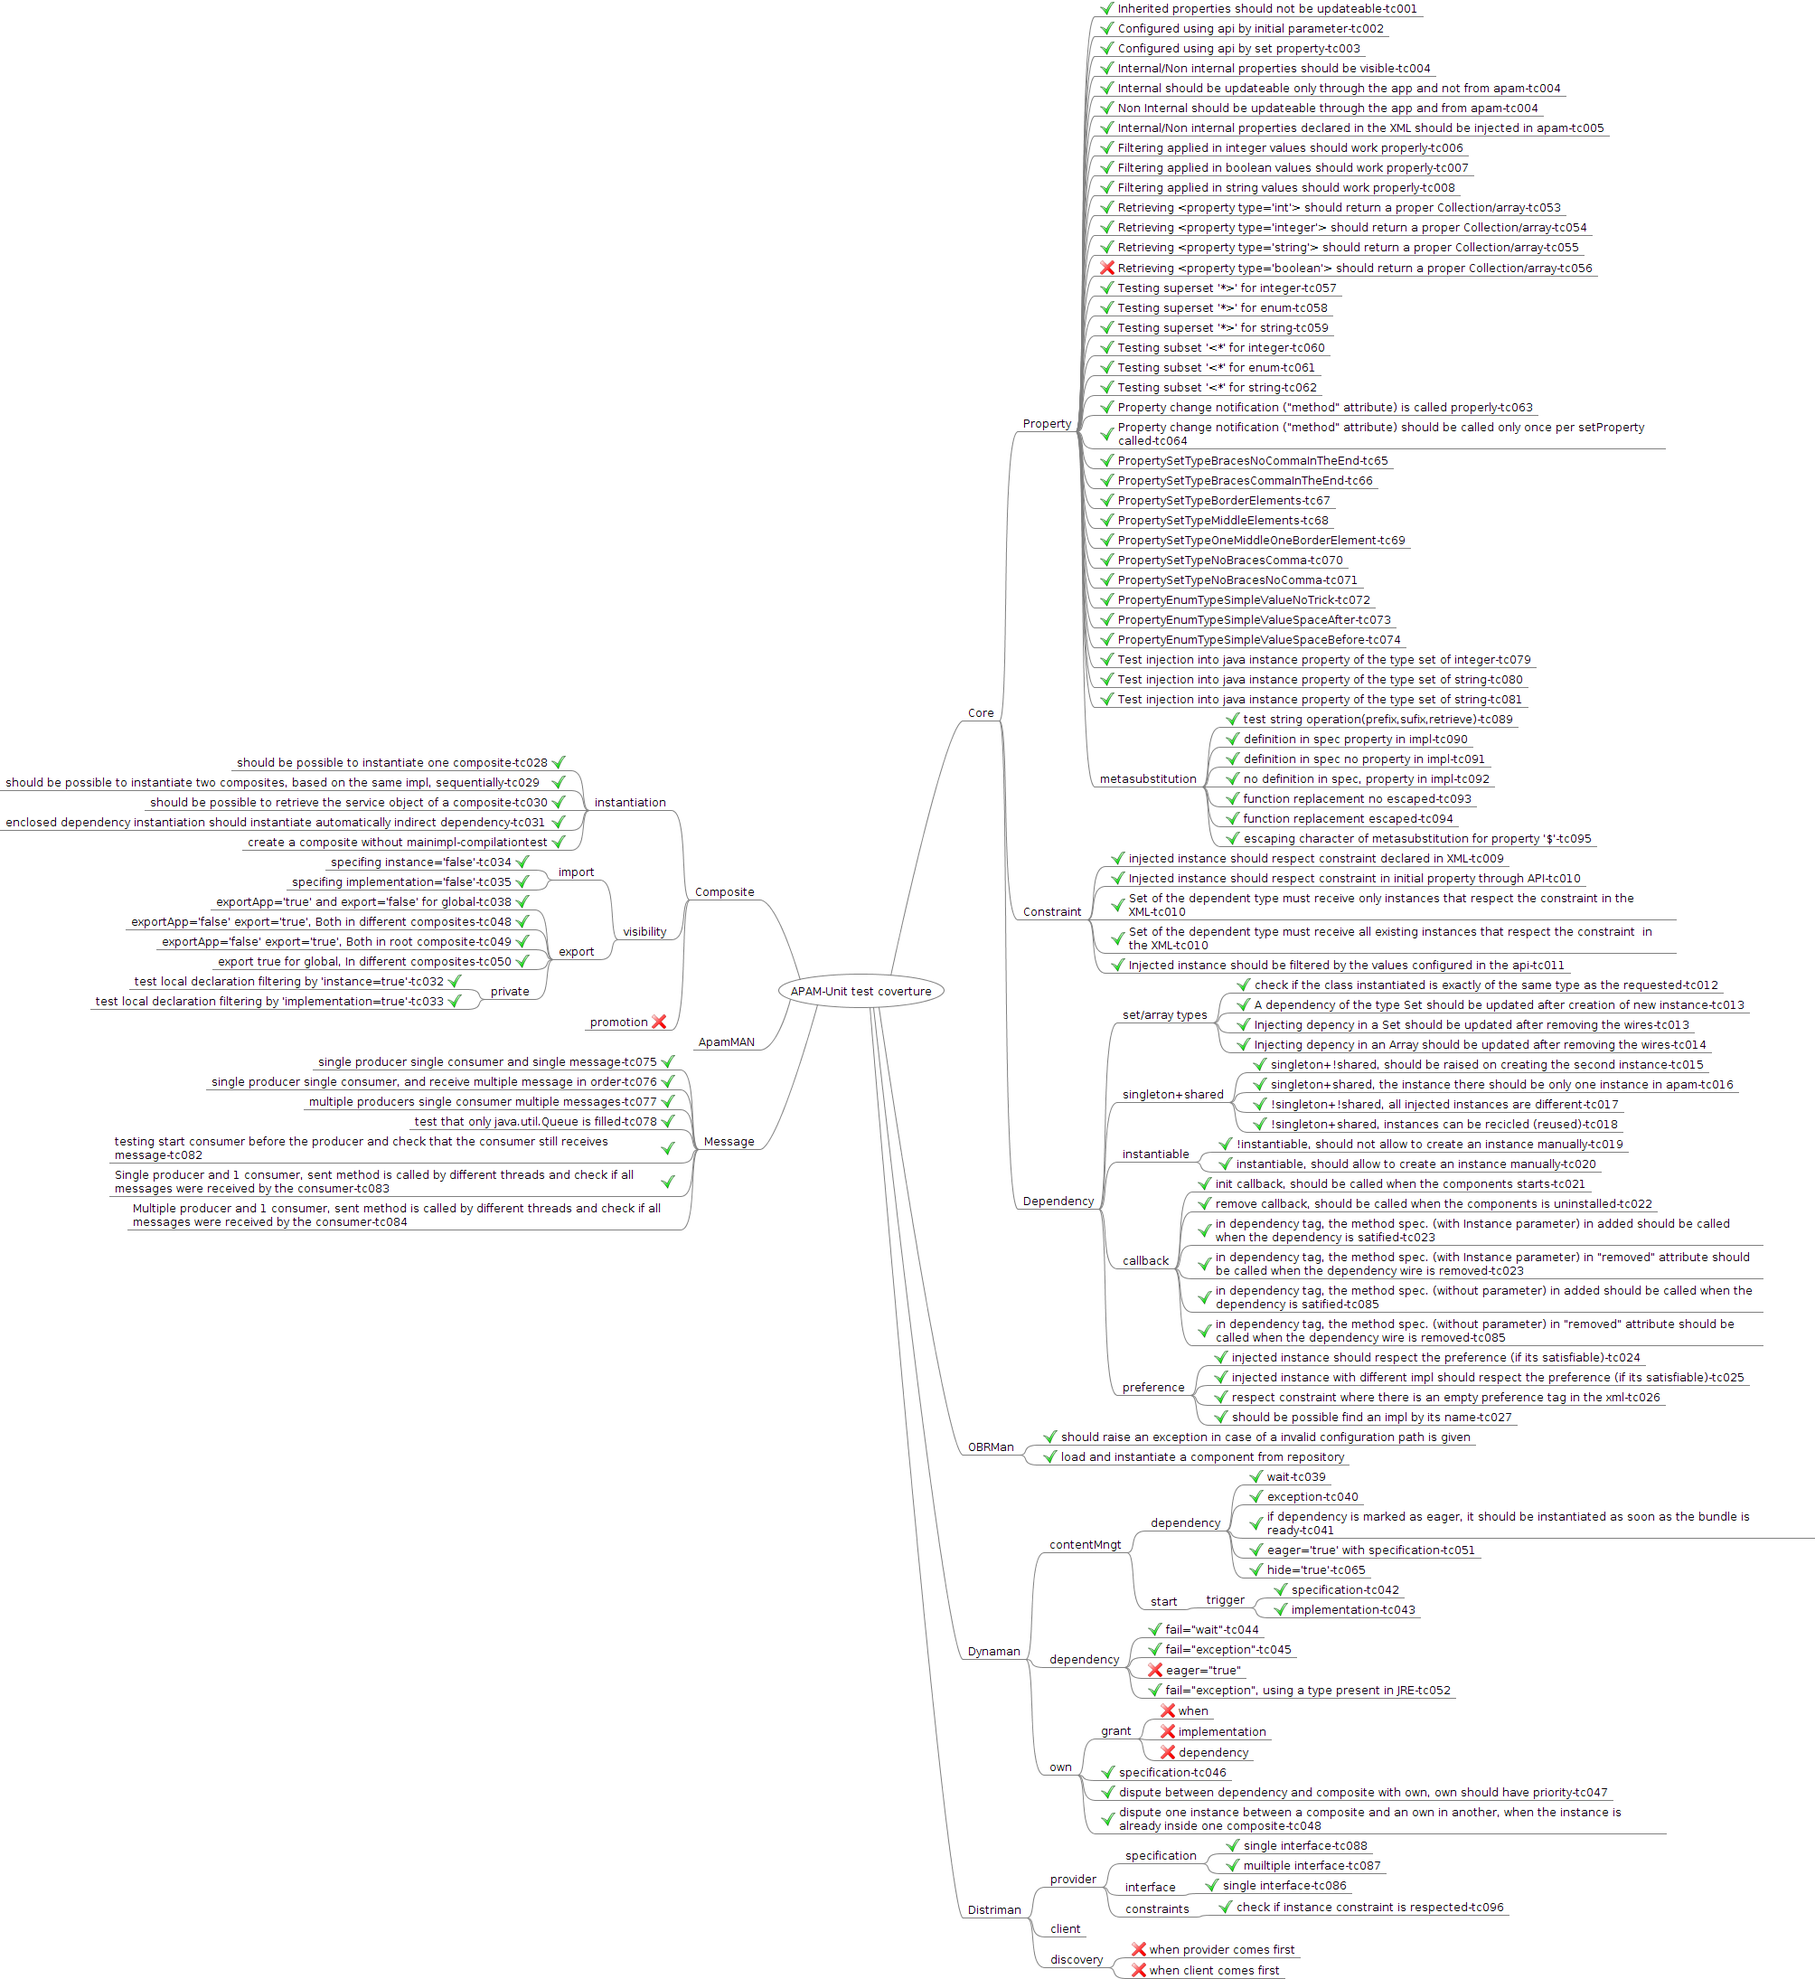
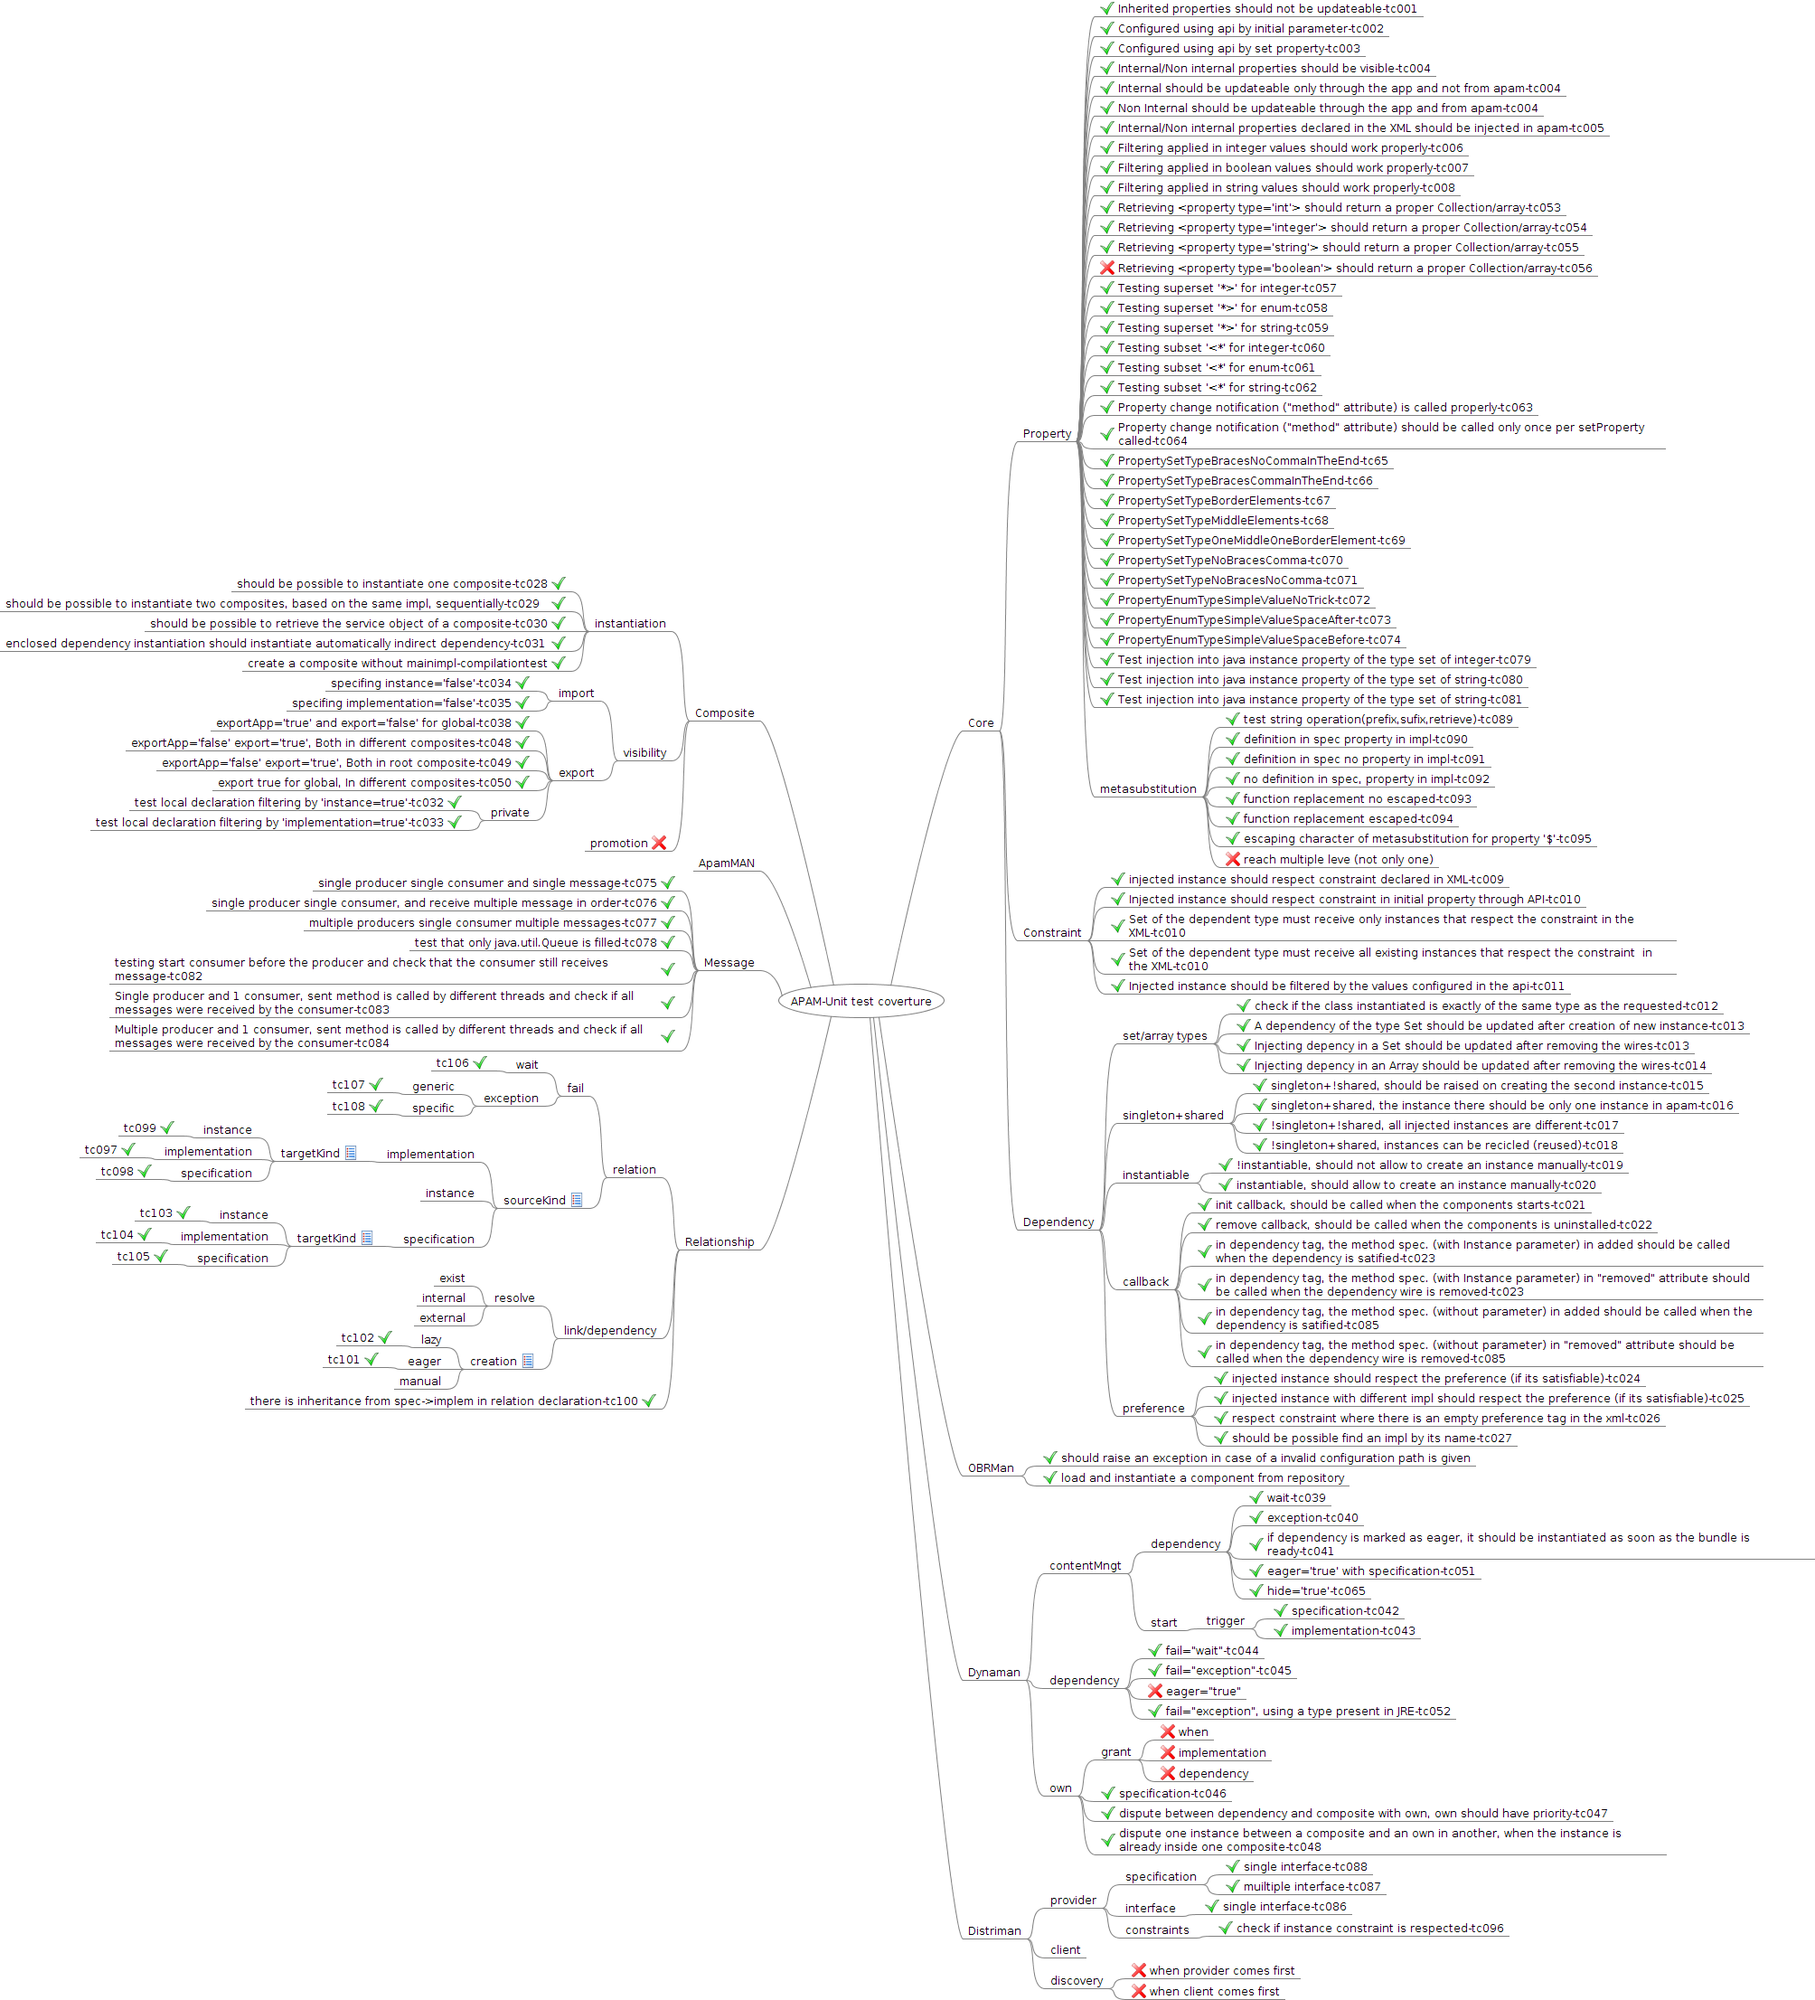
adding tc107,tc108

diff --git a/tests/pax-test/src/test/java/fr/imag/adele/apam/test/testcases/RelationTest.java b/tests/pax-test/src/test/java/fr/imag/adele/apam/test/testcases/RelationTest.java
@@ -13,9 +13,10 @@ import fr.imag.adele.apam.Component;
 import fr.imag.adele.apam.Implementation;
 import fr.imag.adele.apam.Instance;
 import fr.imag.adele.apam.Link;
+import fr.imag.adele.apam.ResolutionException;
 import fr.imag.adele.apam.Specification;
 import fr.imag.adele.apam.impl.ComponentImpl;
-import fr.imag.adele.apam.pax.test.implS3.S3GroupAImpl;
+import fr.imag.adele.apam.pax.test.implS7.S07CustomException;
 import fr.imag.adele.apam.pax.test.implS7.S07ImplementationImporter01;
 import fr.imag.adele.apam.pax.test.implS7.S07ImplementationImporter02;
 import fr.imag.adele.apam.pax.test.implS7.S07ImplementationImporter03;
@@ -26,7 +27,8 @@ import fr.imag.adele.apam.pax.test.implS7.S07ImplementationImporter07;
 import fr.imag.adele.apam.pax.test.implS7.S07ImplementationImporter08;
 import fr.imag.adele.apam.pax.test.implS7.S07ImplementationImporter09;
 import fr.imag.adele.apam.pax.test.implS7.S07ImplementationImporter10;
-import fr.imag.adele.apam.test.testcases.DynamanDependentTest.ThreadWrapper;
+import fr.imag.adele.apam.pax.test.implS7.S07ImplementationImporter11;
+import fr.imag.adele.apam.pax.test.implS7.S07ImplementationImporter12;
 import fr.imag.adele.apam.tests.helpers.ExtensionAbstract;
 
 @RunWith(JUnit4TestRunner.class)
@@ -177,10 +179,6 @@ public class RelationTest extends ExtensionAbstract {
 				.getServiceObject();
 
 		Assert.assertTrue("Declaring a relation information on the apam specification tag, and just using the id in the apam implementation didnt work, so the dependency was not resolved",dependency.getInjected()!=null);
-
-		auxListProperties(dependency.getInjected());
-		
-		auxListInstances();
 		
 	}
 
@@ -247,6 +245,7 @@ public class RelationTest extends ExtensionAbstract {
 		S07ImplementationImporter07 dependency = (S07ImplementationImporter07) instance
 				.getServiceObject();
 		
+		//Force field injection
 		dependency.getInjected();
 		
 		ComponentImpl ci=(ComponentImpl)implementation.getSpec();
@@ -269,6 +268,7 @@ public class RelationTest extends ExtensionAbstract {
 		S07ImplementationImporter08 dependency = (S07ImplementationImporter08) instance
 				.getServiceObject();
 		
+		//Force field injection
 		dependency.getInjected();
 		
 		ComponentImpl ci=(ComponentImpl)implementation.getSpec();
@@ -291,6 +291,7 @@ public class RelationTest extends ExtensionAbstract {
 		S07ImplementationImporter09 dependency = (S07ImplementationImporter09) instance
 				.getServiceObject();
 		
+		//Force field injection
 		dependency.getInjected();
 		
 		ComponentImpl ci=(ComponentImpl)implementation.getSpec();
@@ -325,7 +326,7 @@ public class RelationTest extends ExtensionAbstract {
 		
 	}
 	
-	// Require by the test CompositeContentMngtDependencyFailWait
+	// Require by the test RelationSourceSpecificationTargetImplementationFailWait_tc106
 	class ThreadWrapper extends Thread  {
 
 			final S07ImplementationImporter10 group;
@@ -340,6 +341,66 @@ public class RelationTest extends ExtensionAbstract {
 			}
 
 		}
+
+	@Test
+	public void RelationSourceSpecificationTargetImplementationFailExceptionGeneric_tc107() {
+
+		Implementation implementation = CST.apamResolver.findImplByName(null,
+				"S07-implementation-11");
+
+		Instance instance = implementation.createInstance(null,
+				Collections.<String, String> emptyMap());
+
+		S07ImplementationImporter11 dependency = (S07ImplementationImporter11) instance
+				.getServiceObject();
+		
+		Exception raised=null;
+		
+		try{
+			//Force field injection
+			dependency.getInjected();
+		}catch(Exception e){
+			//If arrive at this block, the test has passed
+			raised=e;
+		}
+		
+		Assert.assertTrue("Using tag <relation/> with fail='exception' didnt not raise an exception as expected.", raised!=null);
+		
+		String messageTemplate="Using tag <relation/> with fail='exception' didnt not raise an exception of the type expected. Type raised was %s instead of %s";
+		
+		Assert.assertTrue(String.format(messageTemplate, raised.getClass().getCanonicalName(), ResolutionException.class.getCanonicalName()), ResolutionException.class.isInstance(raised));
+		
+	}
 	
+	@Test
+	public void RelationSourceSpecificationTargetImplementationFailExceptionCustom_tc108() {
+
+		Implementation implementation = CST.apamResolver.findImplByName(null,
+				"S07-implementation-12");
+
+		Instance instance = implementation.createInstance(null,
+				Collections.<String, String> emptyMap());
+
+		S07ImplementationImporter12 dependency = (S07ImplementationImporter12) instance
+				.getServiceObject();
+		
+		Exception raised=null;
+		
+		try{
+			//Force field injection
+			dependency.getInjected();
+			throw new Exception("foi");
+		}catch(Exception e){
+			//If arrive at this block, the test has passed
+			raised=e;
+		}
+		
+		Assert.assertTrue("Using tag <relation/> with fail='exception' didnt not raise an exception as expected.", raised!=null);
+		
+		String messageTemplate="Using tag <relation/> with exception='%s' did not raise this specific exception. It raised %s instead";
+		
+		Assert.assertTrue(String.format(messageTemplate, S07CustomException.class.getCanonicalName(),raised.getClass().getCanonicalName()), S07CustomException.class.isInstance(raised));
+		
+	}
 	
 }

diff --git a/documentations/technical/test-coverture/APAM-UnitTest-Coverture-OnFreeMindApp.mm b/documentations/technical/test-coverture/APAM-UnitTest-Coverture-OnFreeMindApp.mm
@@ -409,7 +409,7 @@
 </node>
 </node>
 </node>
-<node CREATED="1372164247672" ID="ID_1019323947" MODIFIED="1372343410199" POSITION="left" TEXT="Relationship">
+<node CREATED="1372164247672" ID="ID_1019323947" MODIFIED="1372750895061" POSITION="left" TEXT="Relationship">
 <node CREATED="1372164251663" ID="ID_1087294689" MODIFIED="1372164262137" TEXT="relation">
 <node CREATED="1372166885407" ID="ID_1520514247" MODIFIED="1372166887403" TEXT="fail">
 <node CREATED="1372349258184" ID="ID_676750765" MODIFIED="1372349259738" TEXT="wait">
@@ -418,8 +418,16 @@
 </node>
 </node>
 <node CREATED="1372349260823" ID="ID_1511058565" MODIFIED="1372349262354" TEXT="exception">
-<node CREATED="1372349272088" ID="ID_1146236054" MODIFIED="1372349276610" TEXT="generic"/>
-<node CREATED="1372349277575" ID="ID_1694744440" MODIFIED="1372349280031" TEXT="specific"/>
+<node CREATED="1372349272088" ID="ID_1146236054" MODIFIED="1372349276610" TEXT="generic">
+<node CREATED="1372753691467" ID="ID_158991367" MODIFIED="1372753695887" TEXT="tc107">
+<icon BUILTIN="button_ok"/>
+</node>
+</node>
+<node CREATED="1372349277575" ID="ID_1694744440" MODIFIED="1372349280031" TEXT="specific">
+<node CREATED="1372755121690" ID="ID_1019545519" MODIFIED="1372755125760" TEXT="tc108">
+<icon BUILTIN="button_ok"/>
+</node>
+</node>
 </node>
 </node>
 <node CREATED="1372247359508" ID="ID_93971505" MODIFIED="1372248253328" TEXT="sourceKind">

diff --git a/tests/services-apps/apam-pax-samples-impl-s7/src/main/java/fr/imag/adele/apam/pax/test/implS7/S07ImplementationImporter11.java b/tests/services-apps/apam-pax-samples-impl-s7/src/main/java/fr/imag/adele/apam/pax/test/implS7/S07ImplementationImporter11.java
@@ -1,0 +1,18 @@
+package fr.imag.adele.apam.pax.test.implS7;
+
+import fr.imag.adele.apam.Implementation;
+
+public class S07ImplementationImporter11 implements S07Interface11 {
+
+	public Implementation injected;
+
+	@Override
+	public String whoami() {
+		return "";
+	}
+
+	public Implementation getInjected() {
+		return injected;
+	}
+
+}

diff --git a/tests/services-apps/apam-pax-samples-impl-s7/src/main/java/fr/imag/adele/apam/pax/test/implS7/S07ImplementationImporter12.java b/tests/services-apps/apam-pax-samples-impl-s7/src/main/java/fr/imag/adele/apam/pax/test/implS7/S07ImplementationImporter12.java
@@ -1,0 +1,18 @@
+package fr.imag.adele.apam.pax.test.implS7;
+
+import fr.imag.adele.apam.Implementation;
+
+public class S07ImplementationImporter12 implements S07Interface12 {
+
+	public Implementation injected;
+
+	@Override
+	public String whoami() {
+		return "";
+	}
+
+	public Implementation getInjected() {
+		return injected;
+	}
+
+}

diff --git a/tests/services-apps/apam-pax-samples-impl-s7/src/main/java/fr/imag/adele/apam/pax/test/implS7/S07CustomException.java b/tests/services-apps/apam-pax-samples-impl-s7/src/main/java/fr/imag/adele/apam/pax/test/implS7/S07CustomException.java
@@ -1,0 +1,13 @@
+package fr.imag.adele.apam.pax.test.implS7;
+
+public class S07CustomException extends Exception {
+
+	public S07CustomException() {
+		super();
+	}
+
+	public S07CustomException(String message) {
+		super(message);
+	}
+	
+}

diff --git a/tests/services-apps/apam-pax-samples-impl-s7/src/main/java/fr/imag/adele/apam/pax/test/implS7/S07Interface11.java b/tests/services-apps/apam-pax-samples-impl-s7/src/main/java/fr/imag/adele/apam/pax/test/implS7/S07Interface11.java
@@ -1,0 +1,7 @@
+package fr.imag.adele.apam.pax.test.implS7;
+
+public interface S07Interface11 {
+
+	public String whoami();
+	
+}

diff --git a/tests/services-apps/apam-pax-samples-impl-s7/src/main/java/fr/imag/adele/apam/pax/test/implS7/S07Interface12.java b/tests/services-apps/apam-pax-samples-impl-s7/src/main/java/fr/imag/adele/apam/pax/test/implS7/S07Interface12.java
@@ -1,0 +1,7 @@
+package fr.imag.adele.apam.pax.test.implS7;
+
+public interface S07Interface12 {
+
+	public String whoami();
+	
+}
